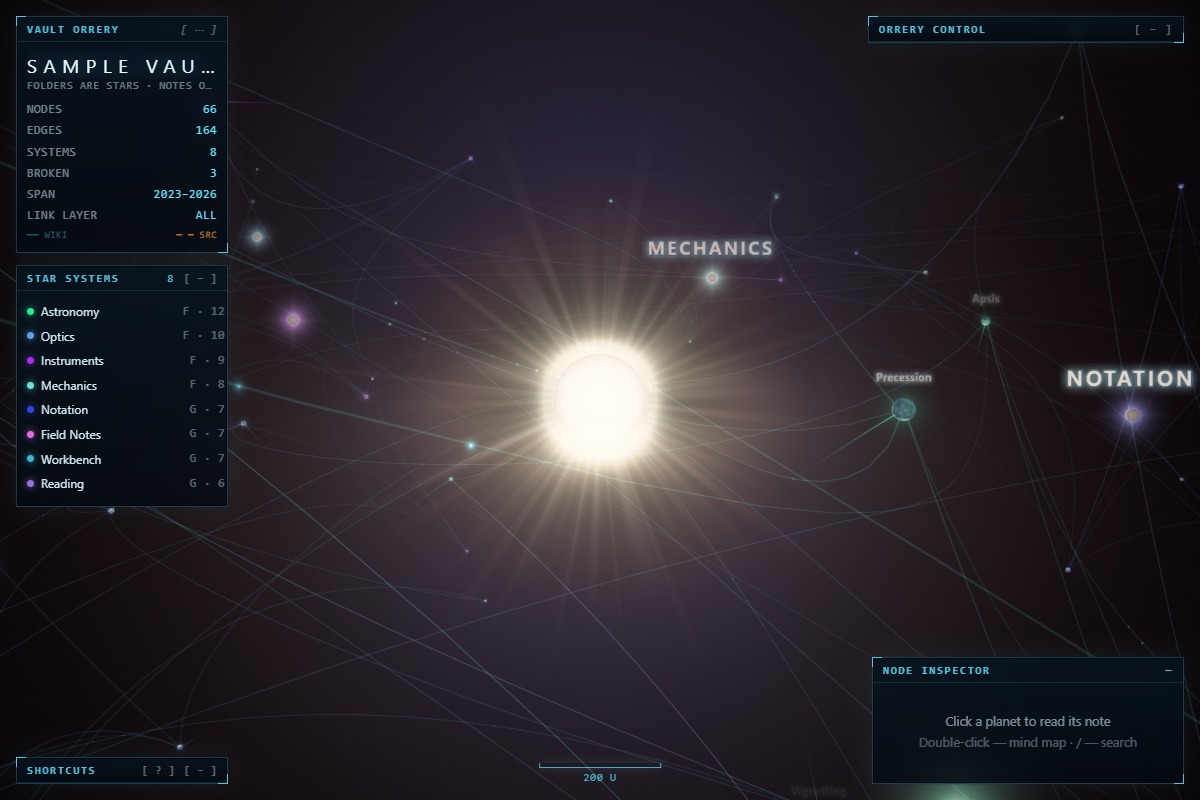
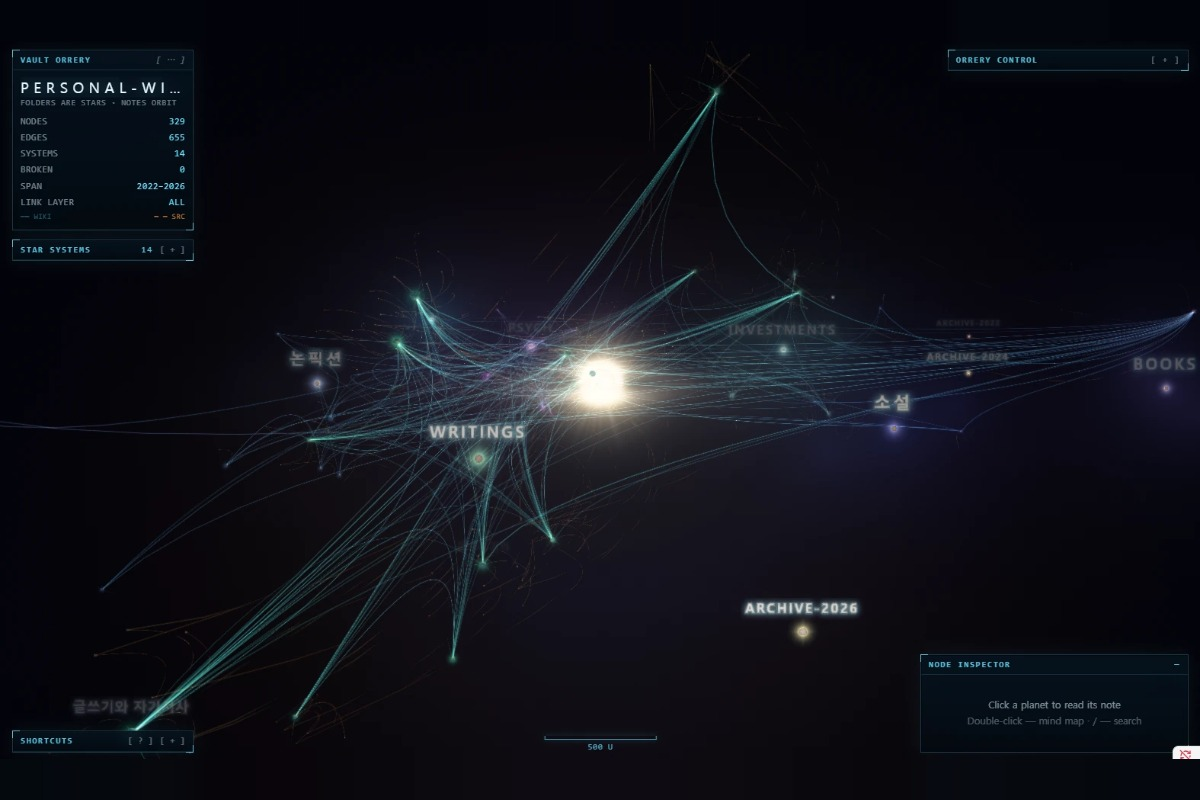
Replace the screenshots with a real vault's
The hero, inspector and mind-map shots and four of the five listing
images now come from a 329-note vault with the link glow raised, which
shows what the orrery looks like on a vault with years of links in it.
The listing images are fitted to 1200x800 by padding top and bottom with
the frame's own edge colour, so no HUD pane is cropped. The Genesis GIF
and its listing frame are unchanged.

diff --git a/README.md b/README.md
@@ -4,7 +4,7 @@
 Folders are stars, notes are the planets orbiting them, and every body on
 screen is a note you can be reading a second later. Works offline.
 
-![A sample vault drawn as a star system: folder-stars — INSTRUMENTS, MECHANICS, NOTATION, WORKBENCH — with their notes in orbit, the links drawn between them, and the HUD around the edge](docs/screenshots/hero.jpg)
+![A 329-note vault drawn as a star system: folder-stars — WRITINGS, INVESTMENTS, BOOKS, 논픽션, 소설 — round a bright hub, with 655 links arcing between their notes and the HUD around the edge](docs/screenshots/hero.jpg)
 
 <p align="center">
   <a href="https://elliott-json-park.github.io/obsidian-vault-orrery/"><b>▶ Try it in your browser — no install, nothing uploaded</b></a>
@@ -39,7 +39,7 @@ Ctrl/Cmd-click opens the note *beside* the orrery, the note you are editing
 carries its own beacon, and *Show in Vault Orrery* is on every note's context
 menu.
 
-![The vault's hub selected: the inspector shows its path, its actions, its link counts, an excerpt and its backlinks, with its links drawn out across the cosmos](docs/screenshots/inspector.jpg)
+![One note selected: the inspector shows its path, its actions, its link counts, its properties and an excerpt, with its links drawn out across the cosmos and its moons in orbit round it](docs/screenshots/inspector.jpg)
 
 ---
 
@@ -75,7 +75,7 @@ does that for you and says so.
 - **Ambient sound** — `U` — every note has a pitch; off until you ask.
 - **한국어 · English · 日本語 · 中文**, switchable without reloading.
 
-![Mind map of one note: Inclination at the centre with its eight neighbours — Roche limit, Synodic period, Tidal locking, Sidereal day — laid out in a ring, and the reading rail on the right](docs/screenshots/mind-map.jpg)
+![Mind map of a vault's index note: the note at the centre with its twenty-four neighbours laid out in a ring, and the reading rail on the right with its excerpt and outbound links](docs/screenshots/mind-map.jpg)
 
 **The graph is Obsidian's own.** Links, backlinks and tags come from the index
 Obsidian already keeps, so a link written through an alias resolves rather than
